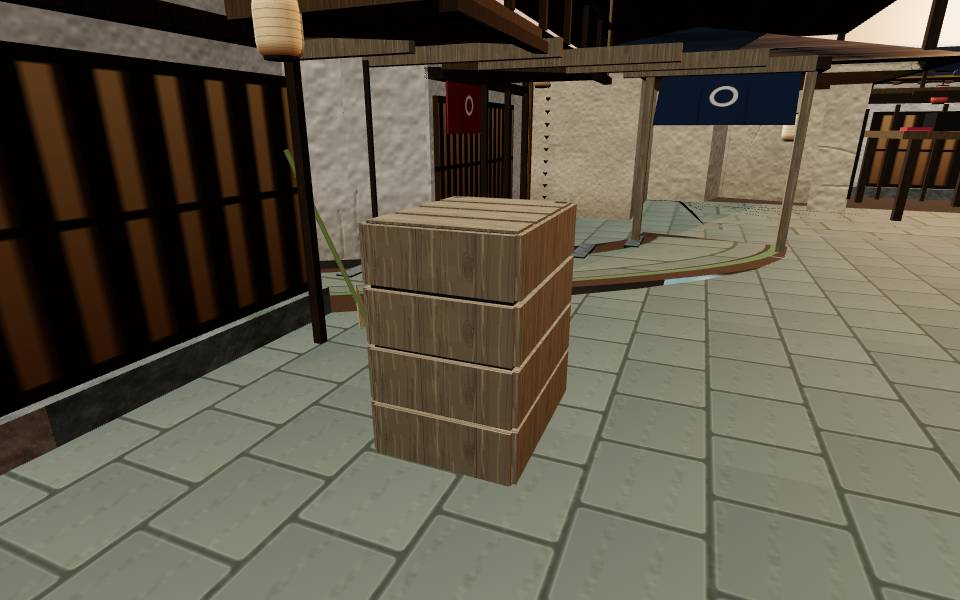
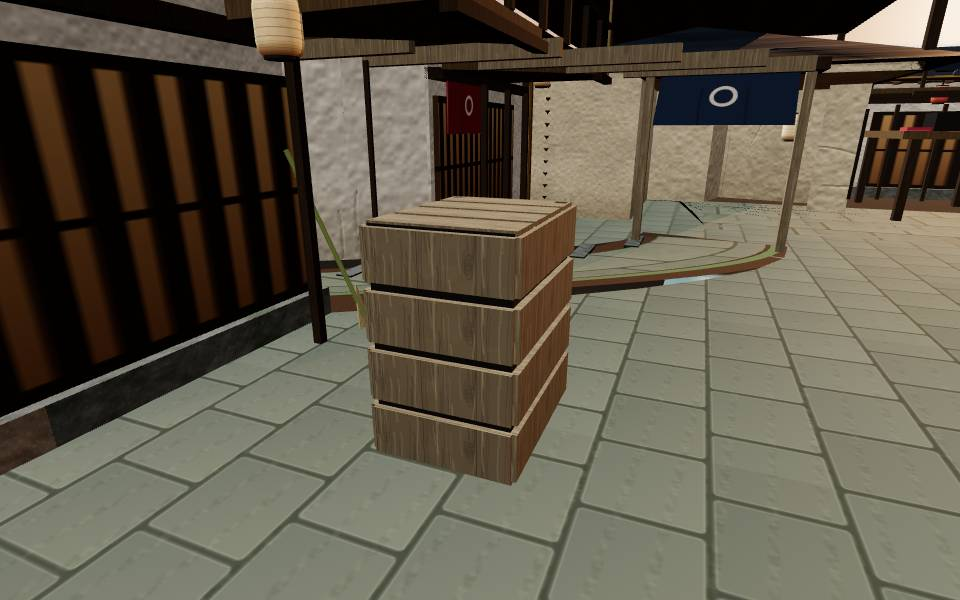
r2-roofs-streets: deeper crate slat gaps, header and indent fixes, status cleanup

diff --git a/src/kit/roofstreets/props.js b/src/kit/roofstreets/props.js
@@ -4,11 +4,10 @@
 // camera at depth piece.d) from the level record `layout.piece`, with the
 // classic piece's exact outer sizes so the platform tops stay where level.js
 // put them (gameplay is geometry). Static plain merged geometry, one mesh per
-// material. The Roof Road's own merge (pieces/common.js mergeByMaterial) keeps
-// position/normal/uv only and drops vertex colours, so the shared vertex-coloured
-// kit materials render black here: every colour is a real material instead
-// (km.wood/plain/straw/bamboo, memoised, so every prop shares them; each is
-// merged once across the run). See the handoff for the colour-attribute patch.
+// material, taken from the Roof Road's own ctx.MAT where it has one (so props land
+// in the classic merge batches, no extra draws) with memoised km.* fallbacks.
+// Vertex colours are deliberately not used: they would only survive
+// mergeByMaterial on vertexColors materials, and alley-cut meshes drop them.
 import * as THREE from 'three';
 import { Bag } from '../craft.js?v=20261114a';
 import { worldScaleBoxUVs } from '../../textures.js?v=20261114a';
@@ -82,7 +81,7 @@ function addCrate(bag, w, h, d, x, z, tier, r, wear) {
   bag.box(w - 0.02, h - 0.02, d - 0.02, { x, y: h / 2, z, m: 'dark' });
   const sh = h / n;
   for (let i = 0; i < n; i++) {
-    const cy = sh * (i + 0.5), sz = sh * (0.92 - 0.04 * wear * r());
+    const cy = sh * (i + 0.5), sz = sh * (0.85 - 0.04 * wear * r());
     for (const a of [-1, 1]) {
       bag.box(w, sz, t, { x, y: cy, z: z + a * d / 2, m: 'wood' });
       bag.box(t, sz, d, { x: x + a * w / 2, y: cy, z, m: 'wood' });
@@ -169,7 +168,7 @@ export function buildYuka(ctx, layout) {
 
 export function buildUtilityPole(ctx, layout) {
   const pc = layout.piece, { d, lowY, highY } = pc, h = highY + 0.7, tier = ctx.tier, bag = new Multi();
-    bag.add(new THREE.CylinderGeometry(0.075, 0.115, h, tier === 'far' ? 5 : 9), { y: h / 2, z: d, m: 'wood' });
+  bag.add(new THREE.CylinderGeometry(0.075, 0.115, h, tier === 'far' ? 5 : 9), { y: h / 2, z: d, m: 'wood' });
   for (const [y, w] of [[lowY, 0.9], [highY, 1.04]]) {
     bag.box(w, 0.09, 0.11, { y: y - 0.045, z: d, m: 'wood' });
     if (tier !== 'far') for (const s of [-1, 1]) bag.cyl(0.07, 0.18, { x: s * w * 0.4, y: y + 0.1, z: d, m: 'cream' });

diff --git a/docs/fable/status/r2-roofs-streets.md b/docs/fable/status/r2-roofs-streets.md
@@ -30,14 +30,7 @@ roof-crates, roof-barrels, roof-komodaru, roof-lantern-post, roof-yuka, roof-uti
   Modular draws <= classic (R52): kit props use the page's own `ctx.MAT` (agedWood, timber, steel, lacquer, foliage,
   bamboo, twine, wisteria, enamel, dark), so they merge into the classic batches.
 
-## Compare (L6)
-`at110-*.jpg`, `at160-*.jpg` (default Roof Road camera; mouth captures are not pixel-repeatable). Only the trellis is in
-frame at s=160: bamboo and lattice match the classic; leaves are chunky low-poly clumps, not alpha cards (AAA-1 so-so,
-tuned smaller). Crates, barrels, komodaru, decks and poles were not framed by this camera; judged only by contract
-and golden bounds. AAA-5 night/day close-ups not done. Honest gap.
-
-## Auto-run
-`?auto=1&swap=...` browser stall check NOT completed (headless run exceeded its time budget); gameplay safety rests on the golden (platforms, walls, lights identical) and rooftop_test baseline parity.
+## Compare (L6) and Auto-run: superseded by Fix round 1 below
 
 ## Fix round 1 (coordinator scope completion; supersedes the older Compare and Auto-run lines above)
 State:              r2-a done (7 props); r2-b deferred (see below)
